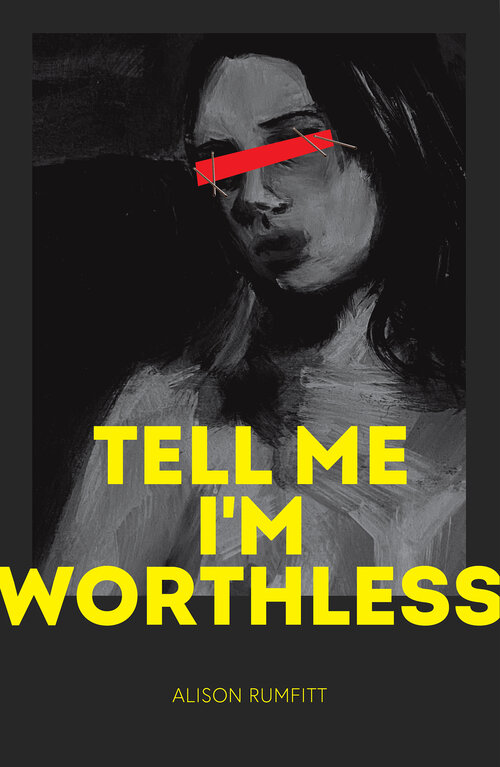
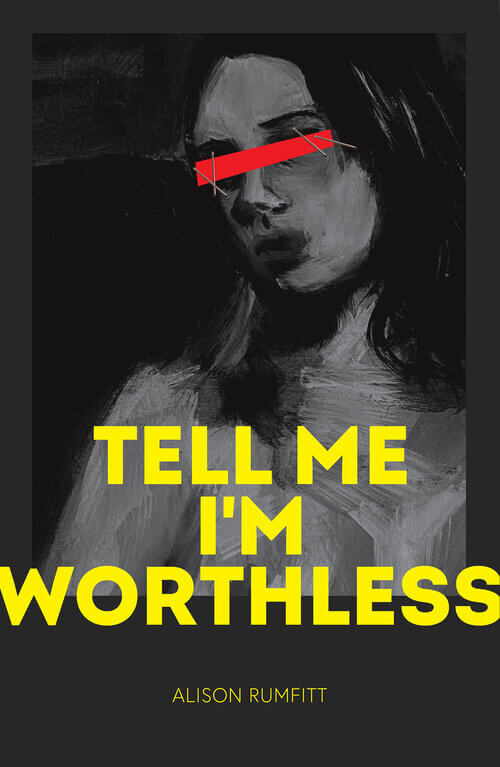
fix: swapped images to smaller file sized images for quicker loading

diff --git a/assets/css/style.css b/assets/css/style.css
@@ -17,9 +17,8 @@ body {
 .title-text {
 height: 300px;
 width: 500px;
-display: flex;
-justify-content: center;
 margin-top: 5%;
+margin-right: 35%;
 }
 
 .logo {
@@ -28,6 +27,7 @@ width: 200px;
 margin-left: 10%;
 margin-top: 10%;
 }
+
 
 .nav-bar a:link {
   color: #244b2c;
@@ -48,11 +48,16 @@ padding: 0 20px 0 20px;
 font-size: 13px;
 }
 
+.row {
+  display: flex;
+}
+
 /* Image of bookshelf */
 .bookshop-opening-img {
   height: 395px;
   width: 400px;
   margin-top: 3%;
+  
 }
 
 /* div container for bookshelf image */
@@ -63,6 +68,7 @@ font-size: 13px;
   margin-top: 3%;
   font-size: 13px;
   text-align: center;
+  
 }
 
 /* MAKE IMAGES CIRCULAR ?*/
@@ -281,6 +287,10 @@ footer {
     height: 125px;
 width: 100px;
 margin-top: 25%;
+  }
+
+  .nav-bar a {
+    font-size: 0.75 rem !important;
   }
 }
 
